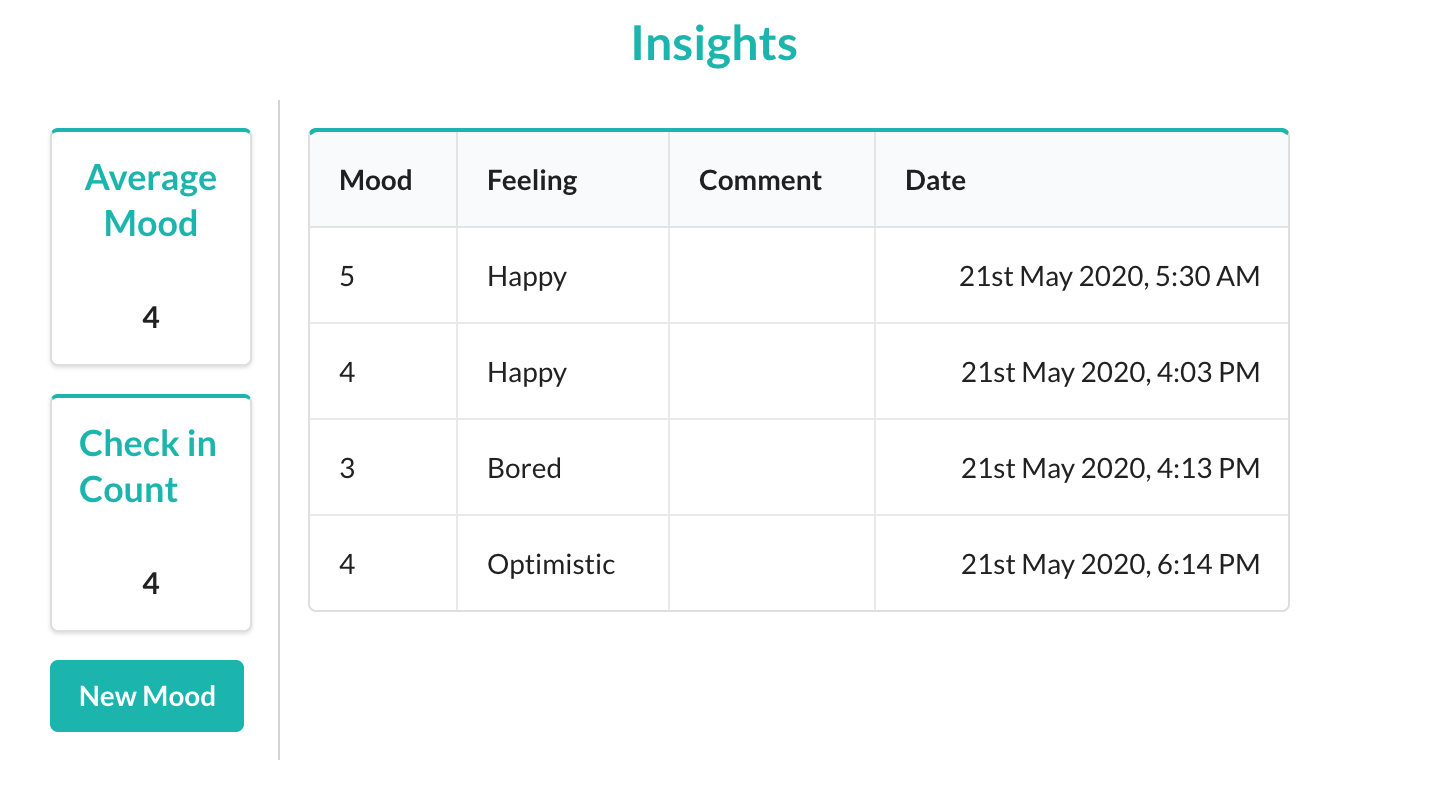
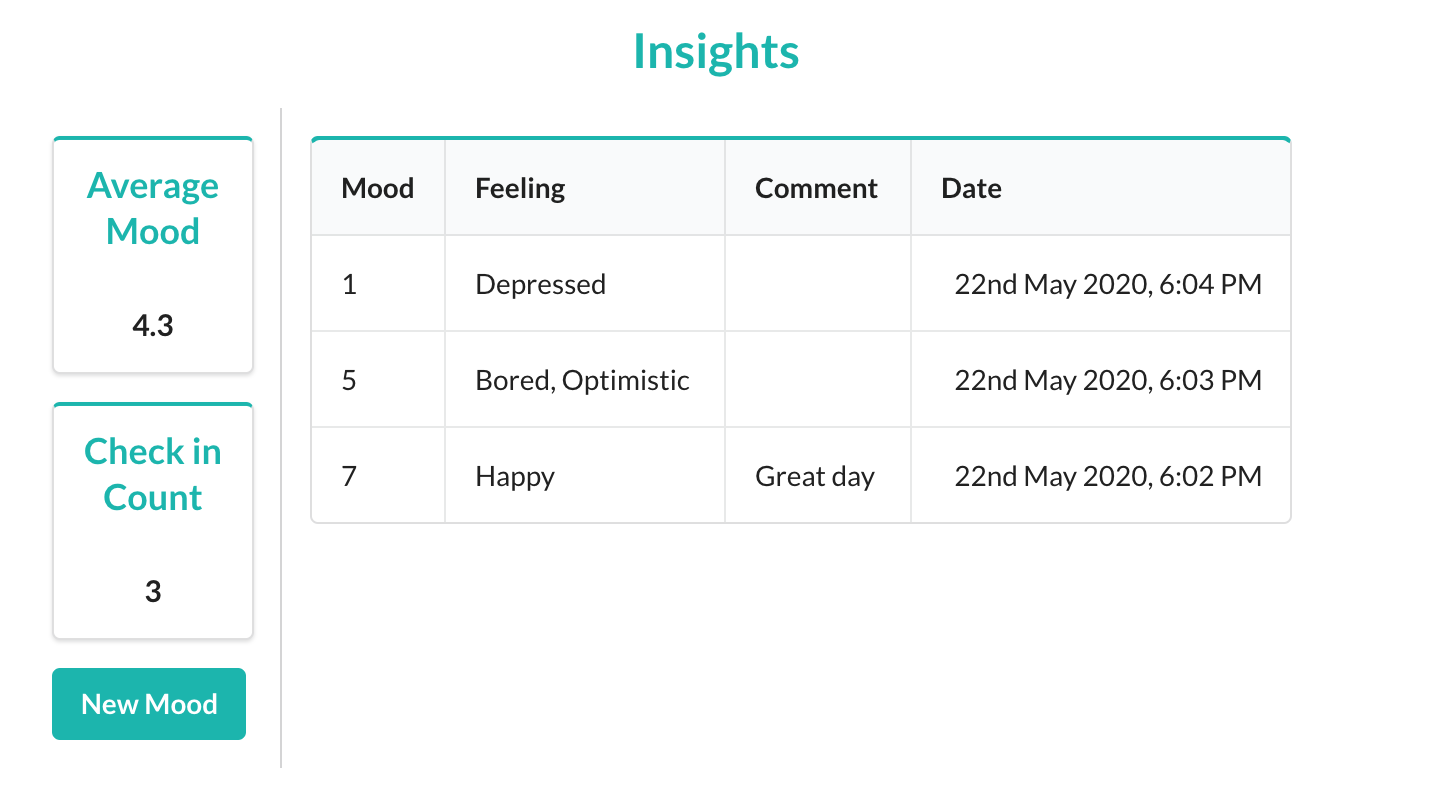
Fix minor issues - data sort and centering

diff --git a/server/server.ts b/server/server.ts
@@ -4,9 +4,9 @@ import bodyParser from "body-parser";
 import { moodController } from "./controllers/controller";
 
 const app: express.Application = express();
-const port: number = 3001;
+const port: string = process.env.PORT;
 
-const router = express.Router();
+const router: express.Router = express.Router();
 
 app.use(cors());
 app.use(bodyParser.json());
@@ -16,5 +16,8 @@ router.get("/moods", moodController.getMoods);
 router.post("/moods", moodController.createMood);
 
 app.listen(port, function () {
+  // tslint:disable-next-line:no-console
   console.log(`Listening on port ${port}`);
 });
+
+module.exports = app;

diff --git a/server/services/service.ts b/server/services/service.ts
@@ -7,11 +7,11 @@ export class MoodService {
     this.moods = [];
   }
 
-  public findAll = async () => {
+  public findAll = async (): Promise<Mood[]> => {
     return this.moods;
   };
 
-  public create = async (newItem) => {
+  public create = async (newItem): Promise<Mood> => {
     if (!newItem.mood || !newItem.feeling) {
       throw new Error("Must enter both mood and feeling");
     }
@@ -24,7 +24,7 @@ export class MoodService {
       comment: newItem.comment || "",
       createdAt,
     };
-    this.moods.push(mood);
+    this.moods.unshift(mood);
     return mood;
   };
 }

diff --git a/frontend/src/components/Insights.js b/frontend/src/components/Insights.js
@@ -67,7 +67,7 @@ class Insights extends React.Component {
               <h4 className="ui centered header">{this.renderAverage()}</h4>
             </div>
             <div className="ui teal segment">
-              <h3 className="ui teal header">Check in Count</h3>
+              <h3 className="ui teal centered header">Check in Count</h3>
               <h4 className="ui centered header">{this.renderCheckins()}</h4>
             </div>
             <div className="ui padded centered grid">

diff --git a/README.md b/README.md
@@ -4,7 +4,6 @@ REST API Server with React frontend to allow a user to perform a mood check in a
 
 ### To Do:
 
-- Reverse table date order
 - Fix frontend tests
 - Fix warnings for Dropdown (Select component) and findDOMNode
 
